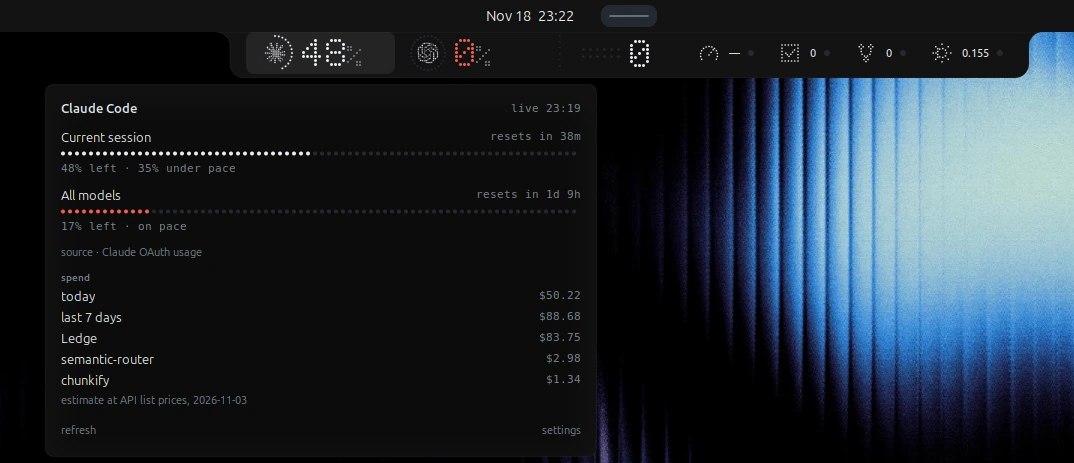
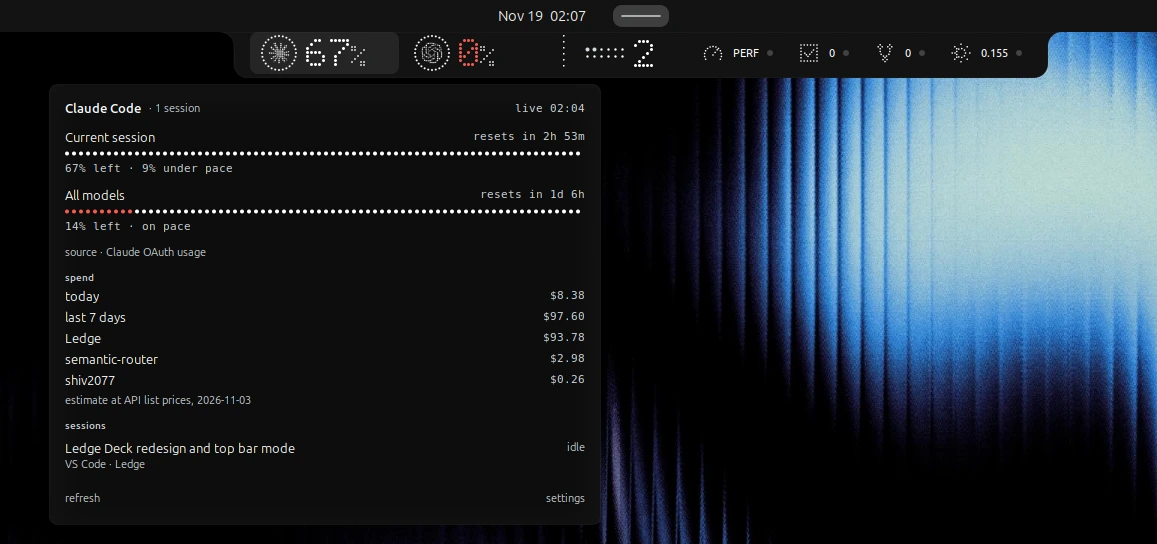
docs: new-theme screenshots, a three-panel hero and one-command install

diff --git a/README.md b/README.md
@@ -11,6 +11,8 @@
 
 ![The Ledge strip open under the top bar: Claude and Codex dials, the agent count, power, todos, GitHub and training](docs/screenshots/strip.webp)
 
+![Three dropdowns side by side: Claude Code limits and spend, the agents waiting on you, and Codex limits](docs/screenshots/hero.webp)
+
 </div>
 
 Ledge is a GNOME Shell extension for people who code with several AI agents at once. It lives in the top bar as a small lens beside the clock:
@@ -77,6 +79,106 @@ The hook records only the session id, folder, state, the agent's process id and 
 ```sh
 python3 ~/.local/share/ledge/tools/ledge_agent.py --id build-bot --tool mybot --state working --cwd .
 ```
+
+## Usage limits and spend
+
+![Claude Code dropdown: current session and weekly limits with pace, and spend for today and the last 7 days by project](docs/screenshots/claude.webp)
+
+**Claude Code.** Each limit window is a dotted bar with its reset time and pace, such as "17% ahead of pace". Below it is the estimated spend today and over 7 days, per project, read from your local transcripts at API list prices.
+
+![Codex dropdown: monthly limit with pace and spend](docs/screenshots/codex.webp)
+
+**Codex.** The same view for Codex limits.
+
+A dial turns red when little is left. Extra sign-ins such as `~/.claude-work` or `~/.codex-side` get their own dials.
+
+## Everything else in the strip
+
+![Power, Todo, GitHub and Training dropdowns](docs/screenshots/widgets.webp)
+
+| Widget | What it does |
+| --- | --- |
+| **Power** (top left) | Shows the active power profile; click another to switch |
+| **Todo** (top right) | Type and press Enter to add; tick to complete |
+| **GitHub** (bottom left) | Review requests, your open pull requests and CI for repositories you watch, through the `gh` CLI |
+| **Training** (bottom right) | Live epoch and loss for runs that report with `tools/ledge_status.py`, and a notice when one finishes, crashes or stalls |
+
+Local models (Ollama, LM Studio, llama.cpp) and the GitHub Copilot quota can be switched on in Preferences.
+
+## System design
+
+![Ledge system design: you, your coding agents, observe, understand, surface, act](docs/diagrams/loop.svg)
+
+Ledge closes one loop between you and your agents:
+
+| Step | What happens |
+| --- | --- |
+| **You → Coding agents** | You start several agents across terminals and worktrees. They work, ask for permission or input, and finish |
+| **Observe** | Ledge reads the signals agents already leave: hook events, session files, workspace panes, running processes and provider usage limits. Each source has its own switch, and every read runs in the background with a timeout |
+| **Understand** | Signals become one entry per agent. Ledge adds each agent's worktree and branch, flags clashes, orders who has waited longest, and works out pace and spend |
+| **Surface** | The lens, the dot strip and the dropdowns show it. Red appears only when something needs you |
+| **Act** | You jump to the waiting agent, approve or answer it, or pace your work. The agents carry on and the loop repeats |
+
+Everything stays on your machine. More detail is in [docs/ARCHITECTURE.md](docs/ARCHITECTURE.md), [DECISIONS.md](DECISIONS.md) and [docs/TESTING.md](docs/TESTING.md). Both diagrams have an editable Excalidraw file beside them in [`docs/diagrams/`](docs/diagrams).
+
+## Alerts
+
+| Event | What happens |
+| --- | --- |
+| A coding session finishes | The strip opens for **Peek** seconds; the **Finished sound** plays if sounds are on |
+| A session waits on you | The lens flashes red, its dot blinks red, and the strip opens; the **Waiting sound** plays if sounds are on |
+| A usage window reaches 80 % or 100 % | One notification each, re-armed when the window resets |
+
+Do Not Disturb silences sounds and peeks. Peeks also stay away from fullscreen windows. Mute limit alerts per provider in preferences.
+
+## Appearance
+
+| Theme | Description |
+| --- | --- |
+| **Midnight** | Matte black. The default. |
+| **Graphite** | Soft dark grey. |
+| **Nord**, **Catppuccin Mocha**, **Dracula** | The well-known palettes. |
+| **Ocean** | Deep navy. |
+| **Snow** | Light. |
+| **System** | Follows Ubuntu's light or dark style and your accent colour, live. |
+| **Custom** | Your own colours and opacity. |
+
+Every theme keeps text at 4.5:1 contrast and marks at 3:1 against any background it can land on. Tests enforce this for every built-in theme.
+
+## Installation
+
+**Requirements:** GNOME Shell 50 (Ubuntu 26.04), Python 3 and `glib-compile-schemas`, which ship with Ubuntu Desktop. Optional: `gh` for GitHub and Copilot; Ollama, LM Studio or llama.cpp for local models.
+
+### One command
+
+```sh
+git clone https://github.com/shiv2077/Ledge.git ~/Ledge && make -C ~/Ledge install
+```
+
+Log out and back in (Wayland only picks up new extensions at login), then turn it on:
+
+```sh
+gnome-extensions enable ledge@shiv2077
+```
+
+### Let your coding agent set it up
+
+Paste this into Claude Code, Codex or any coding agent:
+
+```text
+Install the Ledge GNOME Shell extension from https://github.com/shiv2077/Ledge.
+1. Clone it to ~/Ledge and run `make install` there.
+2. Run `make agent-tools`, then add the hooks from tools/hooks/claude-code-settings.json
+   to ~/.claude/settings.json. Back that file up first and keep every hook already in it.
+3. Tell me to log out and back in, and after that run `gnome-extensions enable ledge@shiv2077`.
+Do not edit any other settings.
+```
+
+### From extensions.gnome.org
+
+Ledge is submitted to [extensions.gnome.org](https://extensions.gnome.org/extension/11824/ledge/) and waiting for review. Once approved, install it with one click there or from the Extension Manager app.
+
+`make package` writes a shareable zip to `dist/ledge@shiv2077.shell-extension.zip`.
 
 ## Usage limits and spend
 
